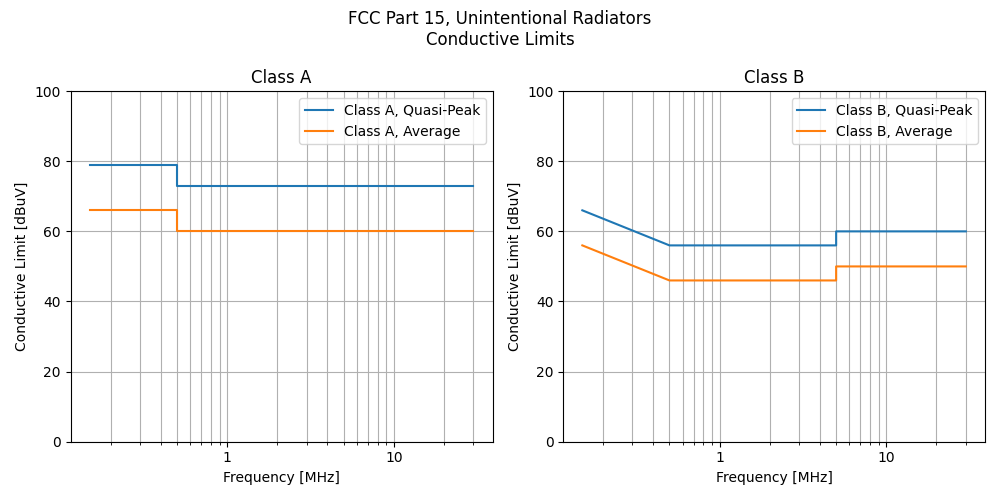
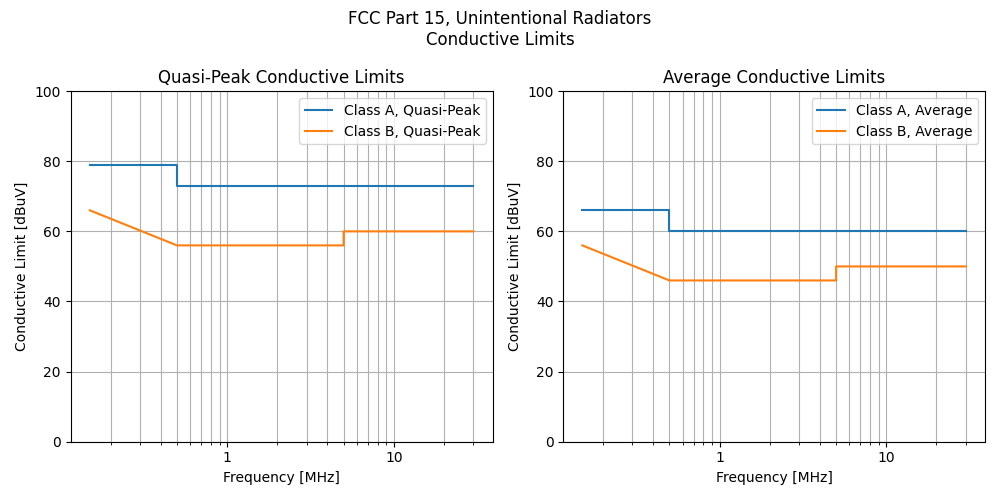
Started working on a CISPR 11 graph.

diff --git a/content/electronics/electromagnetic-compatibility-emc/main.py b/content/electronics/electromagnetic-compatibility-emc/main.py
@@ -8,6 +8,7 @@ SCRIPT_DIR = Path(__file__).parent
 
 def main():
     plot_fcc15_unintentional_radiators_conductive()
+    plot_cispr11_conductive_limits()
 
 def plot_fcc15_unintentional_radiators_conductive():
     fig, axes = plt.subplots(ncols=2, nrows=1, figsize=(10, 5))
@@ -15,22 +16,24 @@ def plot_fcc15_unintentional_radiators_conductive():
     fig.suptitle('FCC Part 15, Unintentional Radiators\nConductive Limits')
 
     ###########
-    # CLASS A
+    # QUASI-PEAK
     ###########
     ax = axes[0]
+
     freq_MHz =   [ 0.15, 0.5, 0.5, 30 ]
     limit_dbuV = [ 79,   79,  73,  73 ]
     ax.plot(freq_MHz, limit_dbuV, label="Class A, Quasi-Peak")
-    freq_MHz =   [ 0.15, 0.5, 0.5, 30 ]
-    limit_dbuV = [ 66,   66,  60,  60 ]
-    ax.plot(freq_MHz, limit_dbuV, label="Class A, Average")
+    
+    freq_MHz =   [ 0.15, 0.5, 0.5, 5,  5,  30 ]
+    limit_dbuV = [ 66,   56,  56,  56, 60, 60 ]
+    ax.plot(freq_MHz, limit_dbuV, label="Class B, Quasi-Peak")
 
     # Log for frequency
     ax.set_xscale('log')
     # Disable minor ticks from the log x-axis, and remove scientific notation from major ticks
     ax.xaxis.set_major_formatter(StrMethodFormatter('{x:.0f}'))
     ax.xaxis.set_minor_formatter(NullFormatter())
-    ax.set_title('Class A')
+    ax.set_title('Quasi-Peak Conductive Limits')
     ax.set_xlabel('Frequency [MHz]')
     ax.set_ylabel('Conductive Limit [dBuV]')
     ax.set_ylim(0, 100)
@@ -39,12 +42,14 @@ def plot_fcc15_unintentional_radiators_conductive():
     ax.grid(which='major', axis='y')
     
     ###########
-    # CLASS B
+    # Average
     ###########
     ax = axes[1]
-    freq_MHz =   [ 0.15, 0.5, 0.5, 5,  5,  30 ]
-    limit_dbuV = [ 66,   56,  56,  56, 60, 60 ]
-    ax.plot(freq_MHz, limit_dbuV, label="Class B, Quasi-Peak")
+
+    freq_MHz =   [ 0.15, 0.5, 0.5, 30 ]
+    limit_dbuV = [ 66,   66,  60,  60 ]
+    ax.plot(freq_MHz, limit_dbuV, label="Class A, Average")
+
     freq_MHz =   [ 0.15, 0.5, 0.5, 5,  5,  30 ]
     limit_dbuV = [ 56,   46,  46,  46, 50, 50 ]
     ax.plot(freq_MHz, limit_dbuV, label="Class B, Average")
@@ -54,7 +59,7 @@ def plot_fcc15_unintentional_radiators_conductive():
     # Disable minor ticks from the log x-axis, and remove scientific notation from major ticks
     ax.xaxis.set_major_formatter(StrMethodFormatter('{x:.0f}'))
     ax.xaxis.set_minor_formatter(NullFormatter())
-    ax.set_title('Class B')
+    ax.set_title('Average Conductive Limits')
     ax.set_xlabel('Frequency [MHz]')
     ax.set_ylabel('Conductive Limit [dBuV]')
     ax.set_ylim(0, 100)
@@ -65,6 +70,85 @@ def plot_fcc15_unintentional_radiators_conductive():
     plt.tight_layout()
     plt.savefig(SCRIPT_DIR / 'fcc-part15-unintentional-radiators-conductive-limits.png')
 
+def plot_cispr11_conductive_limits():
+    fig, axes = plt.subplots(ncols=2, nrows=1, figsize=(10, 5))
+
+    fig.suptitle('CISPR 11\nConductive Limits')
+
+    ###########
+    # QUASI-PEAK
+    ###########
+    ax = axes[0]
+
+    # Group 1
+    vertices = np.array([
+        # freq_MHz, limit_dBuV
+        [ 0.15, 79 ],
+        [ 0.5,  79 ],
+        [ 0.5,  73 ],
+        [ 30,   73 ],
+    ])
+    ax.plot(vertices[:, 0], vertices[:, 1], label="Group 1")
+
+    # Group 2, LP
+    vertices = np.array([
+        # freq_MHz, limit_dBuV
+        [ 0.15, 100 ],
+        [ 0.5,  100 ],
+        [ 0.5,  86 ],
+        [ 5,    86 ],
+        [ 5,    90 ],
+        [ 30,   73 ],
+    ])
+    ax.plot(vertices[:, 0], vertices[:, 1], label="Group 2 LP")
+
+    # Group 2, HP
+    vertices = np.array([
+        # freq_MHz, limit_dBuV
+        [ 0.15, 130 ],
+        [ 0.5,  130 ],
+        [ 0.5,  125 ],
+        [ 5,    125 ],
+        [ 5,    115 ],
+        [ 30,   115 ],
+    ])
+    ax.plot(vertices[:, 0], vertices[:, 1], label="Group 2 HP")
+
+    # Log for frequency
+    ax.set_xscale('log')
+    # Disable minor ticks from the log x-axis, and remove scientific notation from major ticks
+    ax.xaxis.set_major_formatter(StrMethodFormatter('{x:.0f}'))
+    ax.xaxis.set_minor_formatter(NullFormatter())
+    ax.set_title('Quasi-Peak Conductive Limits')
+    ax.set_xlabel('Frequency [MHz]')
+    ax.set_ylabel('Conductive Limit [dBuV]')
+    ax.set_ylim(0, 140)
+    ax.legend()
+    ax.grid(which='both', axis='x')
+    ax.grid(which='major', axis='y')
+    
+    ###########
+    # Average
+    ###########
+    ax = axes[1]
+
+    # TODO: Add plots here.
+
+    # Log for frequency
+    ax.set_xscale('log')
+    # Disable minor ticks from the log x-axis, and remove scientific notation from major ticks
+    ax.xaxis.set_major_formatter(StrMethodFormatter('{x:.0f}'))
+    ax.xaxis.set_minor_formatter(NullFormatter())
+    ax.set_title('Average Conductive Limits')
+    ax.set_xlabel('Frequency [MHz]')
+    ax.set_ylabel('Conductive Limit [dBuV]')
+    ax.set_ylim(0, 100)
+    ax.legend()
+    ax.grid(which='both', axis='x')
+    ax.grid(which='major', axis='y')
+
+    plt.tight_layout()
+    plt.savefig(SCRIPT_DIR / 'cispr-11-conductive-limits.png')
 
 if __name__ == '__main__':
     main()

diff --git a/content/electronics/electromagnetic-compatibility-emc/_index.md b/content/electronics/electromagnetic-compatibility-emc/_index.md
@@ -2,8 +2,8 @@
 authors: [ Geoffrey Hunter ]
 date: 2011-09-05
 draft: false
-lastmod: 2022-07-18
-tags: [ electrical compliance, compliance, EMI, EMC, attenuators, transient limiters, anechoic, TekBox, EMCview, FCC, Part 15, radiators, LISN, conducted emissions, radiated emissions, CISPR, CISPR 11, CISPR 25 ]
+lastmod: 2022-07-27
+tags: [ electrical compliance, compliance, EMI, EMC, attenuators, transient limiters, anechoic, TekBox, EMCview, FCC, Part 15, radiators, LISN, conducted emissions, radiated emissions, CISPR, CISPR 11, CISPR 25, European, EN 55011, quasi-peak, average, peak, limits, standards, signal analyzer ]
 title: Electromagnetic Compatibility (EMC)
 type: page
 ---
@@ -96,8 +96,6 @@ uV = 10^{\frac{dBuV}{20}} \cdot 1uV
 
 For example, `\(79dBuV = 8913uV = 8.9mV\)`.
 {{% /tip %}}
-
-
 
 For everything but Class A devices (i.e. Class B, it's the only other class), the following conductive limits apply:
 
@@ -237,6 +235,9 @@ The following table lists the conducted EMC limits for Class A devices (by Group
   </tbody>
 </table>
 
+The above data is visualized in the below graphs:
+
+{{% img src="cispr-11-conductive-limits.png" width="900px" caption="CISPR 11 conductive EMC limits (both quasi-peak and average) for Group 1, Group 2 LP and Group 2 HP devices." %}}
 
 ### CISPR 25
 
